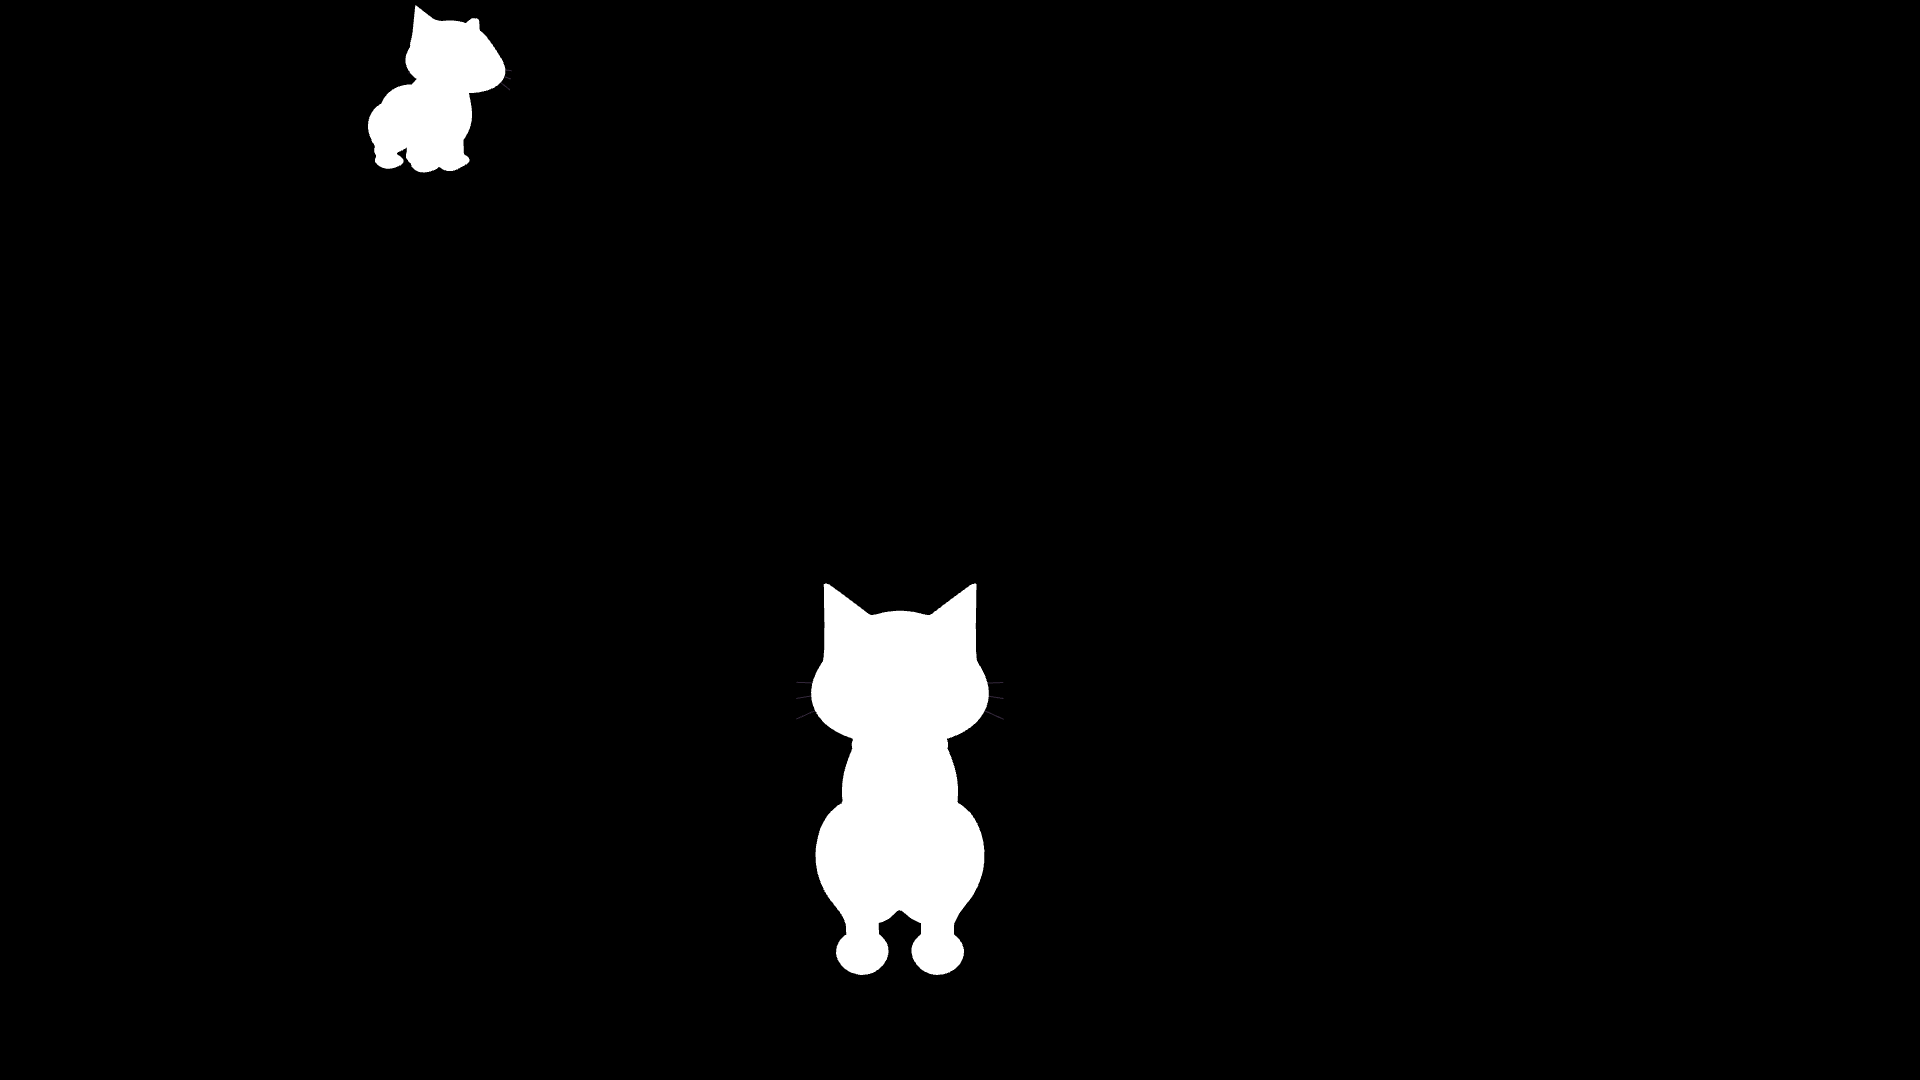
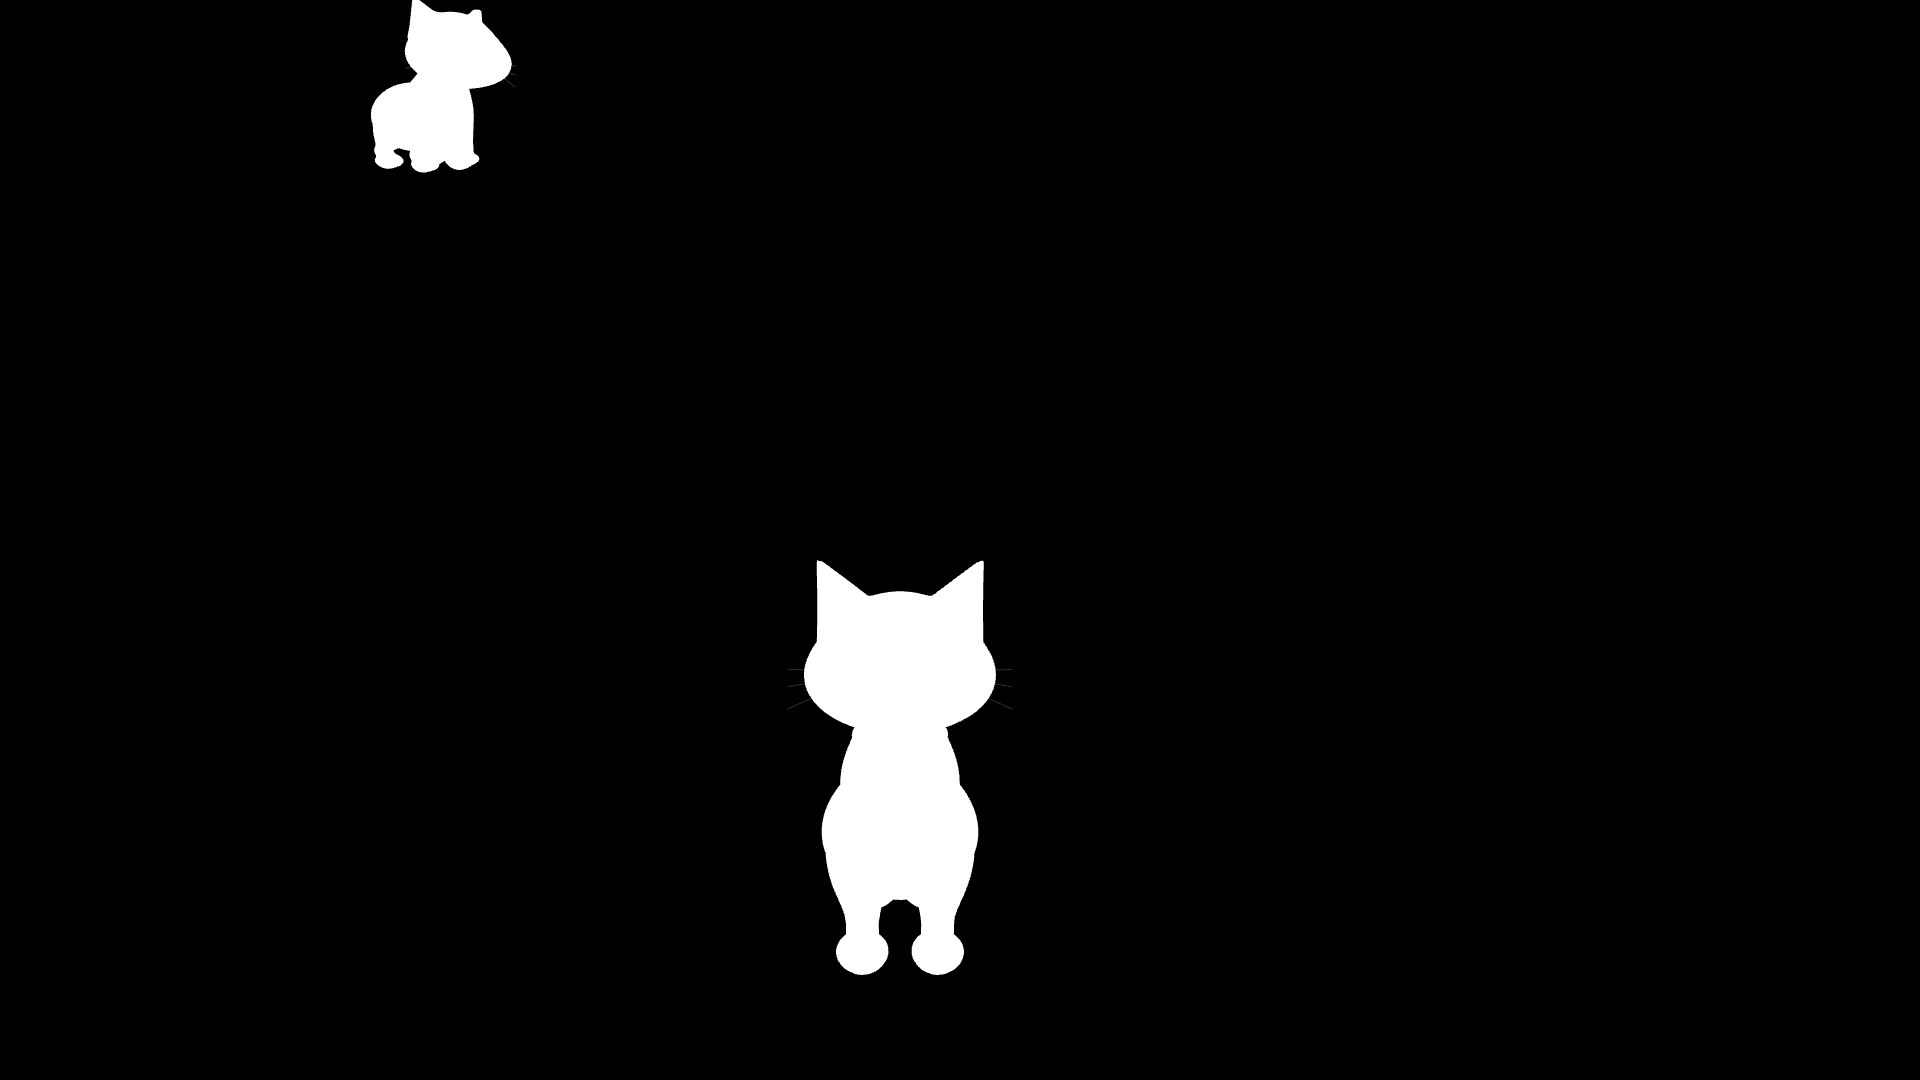
docs(M0): art director anatomy review of Mikan - FIX
Claude-Session: https://claude.ai/code/session_01K9BzCtu5ca2nRxDXecreHZ

diff --git a/prototypes/artifact-slice/src/sim/combat/encounter.js b/prototypes/artifact-slice/src/sim/combat/encounter.js
@@ -55,6 +55,7 @@ export class Encounter {
     this._emit({ type: 'EncounterStarted', encounter_id: def.Name, opener: def.opener, arena: def.arena,
       posse: def.posse.slice(), enemies: this.enemies().map(e => e.id), guest: def.guest?.cat ?? null });
     if (this.mode === 'standoff') this._standoffStart(); else this._fightStart();
+    this._carry = this.events; // constructor events are returned by the first step()
   }
 
   /* ------------------------------------------------------------ setup */
@@ -104,7 +105,7 @@ export class Encounter {
 
   /* ------------------------------------------------------------ events */
 
-  _emit(ev) { ev.t = +this.realT.toFixed(6); ev.sim_t = +this.simT.toFixed(6); ev.tick = this.tick; this.events.push(ev); return ev; }
+  _emit(ev) { ev.t = +this.realT.toFixed(6); ev.sim_t = +this.simT.toFixed(6); ev.tick = this.tick; this.events.push(ev); this.log.push(ev); return ev; }
 
   /** Emit with a feel request; applies the arbiter's hit-stop to the sim. */
   _emitFeel(ev, req, att, tgt) {
@@ -124,7 +125,7 @@ export class Encounter {
    */
   step(input = {}) {
     if (this.mode === 'ended') return [];
-    this.events = [];
+    this.events = this._carry || []; this._carry = null;
     this.tick++; this.realT = this.tick * this.DT;
     let scale = 1;
     if (this.globalStop > 1e-9) { this.globalStop = Math.max(0, this.globalStop - this.DT); scale = 0; }
@@ -156,7 +157,6 @@ export class Encounter {
       this._fedUpCheck();
       this._endCheck(dt);
     }
-    for (const ev of this.events) this.log.push(ev);
     return this.events;
   }
 
@@ -1168,7 +1168,7 @@ export class Encounter {
     const k = this.k;
     for (const e of this.entities) {
       if (e.gone) continue;
-      const d = e.edt;
+      const d = dt; // timers stop in global hit-stop and run at 5% in Slow Blink (rule 6); local hit-stop freezes only the action
       e.hissCd = Math.max(0, e.hissCd - d);
       for (const m in e.moveCd) e.moveCd[m] = Math.max(0, e.moveCd[m] - d);
       e.flinchT = Math.max(0, e.flinchT - d);
@@ -1189,7 +1189,8 @@ export class Encounter {
       }
       // Frazzle window and decay.
       if (e.side === 'enemy' && !e.routed) {
-        if (e.frazzledT > 0) { e.frazzledT -= d; if (e.frazzledT <= 1e-9) { e.frazzledT = 0; e.fzg = 0; this._emit({ type: 'FrazzleEnded', cat: e.id, reason: 'window' }); } }
+        if (e.frazzledT > 0 && this.pile && this.pile.ids.has(e.id)) { /* the window is held while the Pile-On plays */ }
+        else if (e.frazzledT > 0) { e.frazzledT -= d; if (e.frazzledT <= 1e-9) { e.frazzledT = 0; e.fzg = 0; this._emit({ type: 'FrazzleEnded', cat: e.id, reason: 'window' }); } }
         else if (e.fzg > 0 && this.simT - e.lastFzGainT >= e.rankRow.fz_decay_after_s) e.fzg = Math.max(0, e.fzg - e.rankRow.fz_decay * d);
         const ps = k.enemy_paw_s[e.rank] / this.diff.enemy_paw;
         e.enemyPaws = Math.min(k.paw_cap, e.enemyPaws + k.paw_points / ps * d);

diff --git a/production/qa/evidence/artifact-slice/M0/cats/review-art-director-anatomy.md b/production/qa/evidence/artifact-slice/M0/cats/review-art-director-anatomy.md
@@ -1,0 +1,112 @@
+# Mikan C7 shape pass: art director review (anatomy and appeal)
+
+PROTOTYPE EVIDENCE REVIEW, 2026-11-24. Reviewer: art-director. Scope: owner comment C7
+(`design/reviews/user-comments-2026-11-24.md`): judge the 3D cat on anatomy and appeal, not as a 1:1 trace of the
+reference.
+
+**Evidence read:**
+- References: `design/reviews/refs/mikan-turnaround-ref-v2.webp`, `mikan-legs-feedback.png`, `cat-anatomy-wireframe.png`,
+  `mikan-face-keep.png` and `mikan-turnaround-ref.webp`.
+- Renders: `turnaround-compare.png`, `14`, `15`, `16`, `17`, `18`, `01`, `02`, `03`, `04`, `07`, `09`, `10`, `11-walk-seq-sheet.png`
+  and `README.md`, plus `env/view01-day.png`. That env frame may predate this pass. Its head-from-behind shape matches
+  the current `07`.
+
+**Canon, not counted as errors:**
+- Mikan is a bobtail with a round pom and a ginger cap. The reference's long tail and back patches are not canon.
+- The face decal stays as it is.
+
+## Verdict: FIX (one more pass, then show the owner)
+
+Both of the owner's complaints are answered:
+- **Front legs.** They now drop from under the neck base and the collar line, not from mid-body. Compare the side views
+  in `14` and `16` at 90° and 270° with the owner's red circle in `mikan-legs-feedback.png`.
+- **Hind thighs.** From behind (`14`, `16` at 180°, `07`) the haunches now sit inside a pear-shaped rump, with no lateral
+  bulge. The two hind legs read narrow and separate, as they do in the v2 reference's back view.
+
+A pass that fixed only those two things would be enough to show. Three things stop me sending it now:
+- The forelegs read as one block from the front.
+- The skull reads as a box from behind, which is the angle the player sees most.
+- The walk has a broken ink artefact.
+
+Each is a small fix.
+
+## Scores
+
+| | Score | Why |
+|---|---|---|
+| **Anatomy** | **6.5 / 10** | The leg placement and the haunch width are now right. The front view's fused foreleg column, the flat-faced profile, the vague hock and the box skull keep it from reading as a cat skeleton under the fur. |
+| **Appeal** | **7 / 10** | The front and 3/4 views are charming, with the kept face, the big head and the bell. The back view in the gameplay camera reads instantly: cap, collar, pom and two feet. Appeal drops in profile, where the eye sits on the silhouette and there is no snout, and from behind, where the head looks like a beanie with ears. |
+
+## What works (keep it)
+
+- **The owner's two fixes landed.** Side-on, the foreleg is a straight column under the collar, and the elbow sits
+  under the shoulder at the front of the chest, as in the anatomy wireframe. From behind, the rump is a clean pear and
+  the legs come out of its underside, not its flanks. Do not undo either of these.
+- **Head-to-body ratio.** The head, ears included, is about 53% of standing height in the front view. In the v2
+  reference it is about 56%. The body width from the front is about 54% of the head width, against about 55% in the
+  reference. So the chibi proportion matches the target and there is no bobblehead problem. Leg length is also good:
+  slightly longer than in the reference, which helps the walk read at 3 m.
+- **Face continuity.** The 24-step orbit (`17`) has no pop, no doubled eye and no swap. The front face (`18`) holds the
+  kept face.
+- **Gameplay silhouette.** At the 3 m Explore camera (`07`, `view01-day`) Mikan reads in one glance: ginger cap,
+  red collar, round pom and two white feet. This is the strongest view.
+- **Pom, collar and bell.** The pom is clean and the collar sits high at the nape. The bell hangs proud of the
+  chest and catches the eye in 3/4.
+- **The Wall Sitter** (`15`) carries the same shape language well in its Round build. The heavier haunch suits it, and
+  the lidded face has real character.
+
+## Corrections, in priority order (one pass, technical artist)
+
+1. **Walk: far front paw inks solid black through the leg gap.** This is broken. In `04` and in walk frames 1, 2, 6
+   and 7 of `11-walk-seq-sheet.png`, the far foreleg at mid-swing renders as a dark, spiky ink wedge between the near
+   legs. The cause is either the hull pull reaching the far leg or the legs shell drawing its back faces. Fix: exclude
+   the far-side leg shell from the inward pull while it is occluded, or clamp the hull on legs to about 0.8 cm
+   (half the current 1.6 cm cap). Re-shoot the 8-frame walk. Nothing goes to the owner while this shows.
+
+2. **Front view: split the forelegs and give the chest a bib.** In the front views (`14`, `16` at 0°, `17` at 0° and 345°)
+   the chest and both forelegs form one rectangular white column, with a seam only at the paws. That reads as trousers,
+   not legs. Fix:
+   - Open a gap between the forelegs from the paws up to elbow height, about 40% of the leg length, so you can see
+     daylight between them. Do this by narrowing the inner face of each leg by about 15%, not by moving the leg roots.
+   - Above the elbows, round the chest into a convex bib that bulges about 0.8–1 cm forward of the leg tops. The chest
+     should lead the legs slightly in side view, as in the wireframe, and the legs stay where C7 put them.
+
+3. **Head from behind: set the ears in and dome the crown.** This is the gameplay camera's main view (`07`,
+   `view01-day`, `16` at 135°–225°). The ear bases sit at the full width of the skull, so their outer edges continue
+   the vertical sides of the head. The line between the ears is flat, so the head reads as a box with ear tabs, like a
+   beanie. Fix:
+   - Move the ear roots inward by about 10% of head width each.
+   - Tilt the ears outward by about 10–12°. The reference's ears splay; ours stand vertical.
+   - Raise the crown between the ears by about 0.6–0.8 cm so that line is convex.
+   - Round the upper back corners of the skull, so that from behind the head is a soft dome sitting wider at the cheeks
+     than at the ear bases.
+
+   The face decal and the front view stay unaffected, apart from slightly splayed ears, which also match the
+   reference's front view better.
+
+4. **Profile: a muzzle that leads the eye.** Side-on (`02`, `14`, and `16` at 90° and 270°), the near eye sits on the
+   front edge of the silhouette with only a small nub below it. That reads as pug-faced, and slightly bug-eyed. In the
+   v2 side view, the nose and lifted muzzle sit clearly ahead of the eye. Fix: push the muzzle and nose pad forward
+   about 1 cm, and lift the nose tip about 0.3 cm. That gives a snout plus cheek ahead of the eye in profile. If
+   needed, also cap the eye anchor's slide round the skull at about 30° (currently 38°) so a sliver of cheek stays in
+   front of the eye. Both changes are invisible front-on, so the kept face is safe. Check `18` again afterwards.
+
+5. **Hind leg in side view: a readable hock.** Under the now-correct round thigh, the shin runs in one diagonal into a
+   long flat foot that lands at or behind the rump line. It reads as a boot, and in the walk (`11`, frames 3–4) as a
+   plantigrade foot. Fix:
+   - Make the metatarsal, from hock to paw, close to vertical, leaning back about 10–15° at most.
+   - Raise the hock point about 1 cm and sharpen its back edge into a visible heel.
+   - Bring the standing hind paw forward about 1.5 cm, so it lands under the back of the rump, not behind it.
+
+   Keep the C7 thigh width.
+
+## Notes (not part of this pass)
+
+- **Wall Sitter.** In side and 3/4 views (`02`, `04`, `09`), one grey face stripe lands as a floating dash on the
+  cheek behind the eye, and reads like a stray brow. Shorten it or curve it to follow the cheek when the Wall Sitter
+  next gets a pass.
+- **Lower-face shade.** The shade terminator now crosses the face just under the eyes (`18`, `09`), so the muzzle and
+  mouth sit in lavender shade most of the time. This is a lighting choice, not anatomy, but a clean white lower face,
+  as in the reference, would add appeal. Consider a face-only shade offset when the face is next touched.
+- **Re-shoot after the pass:** `14`, `16`, `04`, `11-walk-seq-sheet.png`, `07` and `turnaround-compare.png`. Re-review
+  the 0°, 90°, 180° and walk frames specifically.
